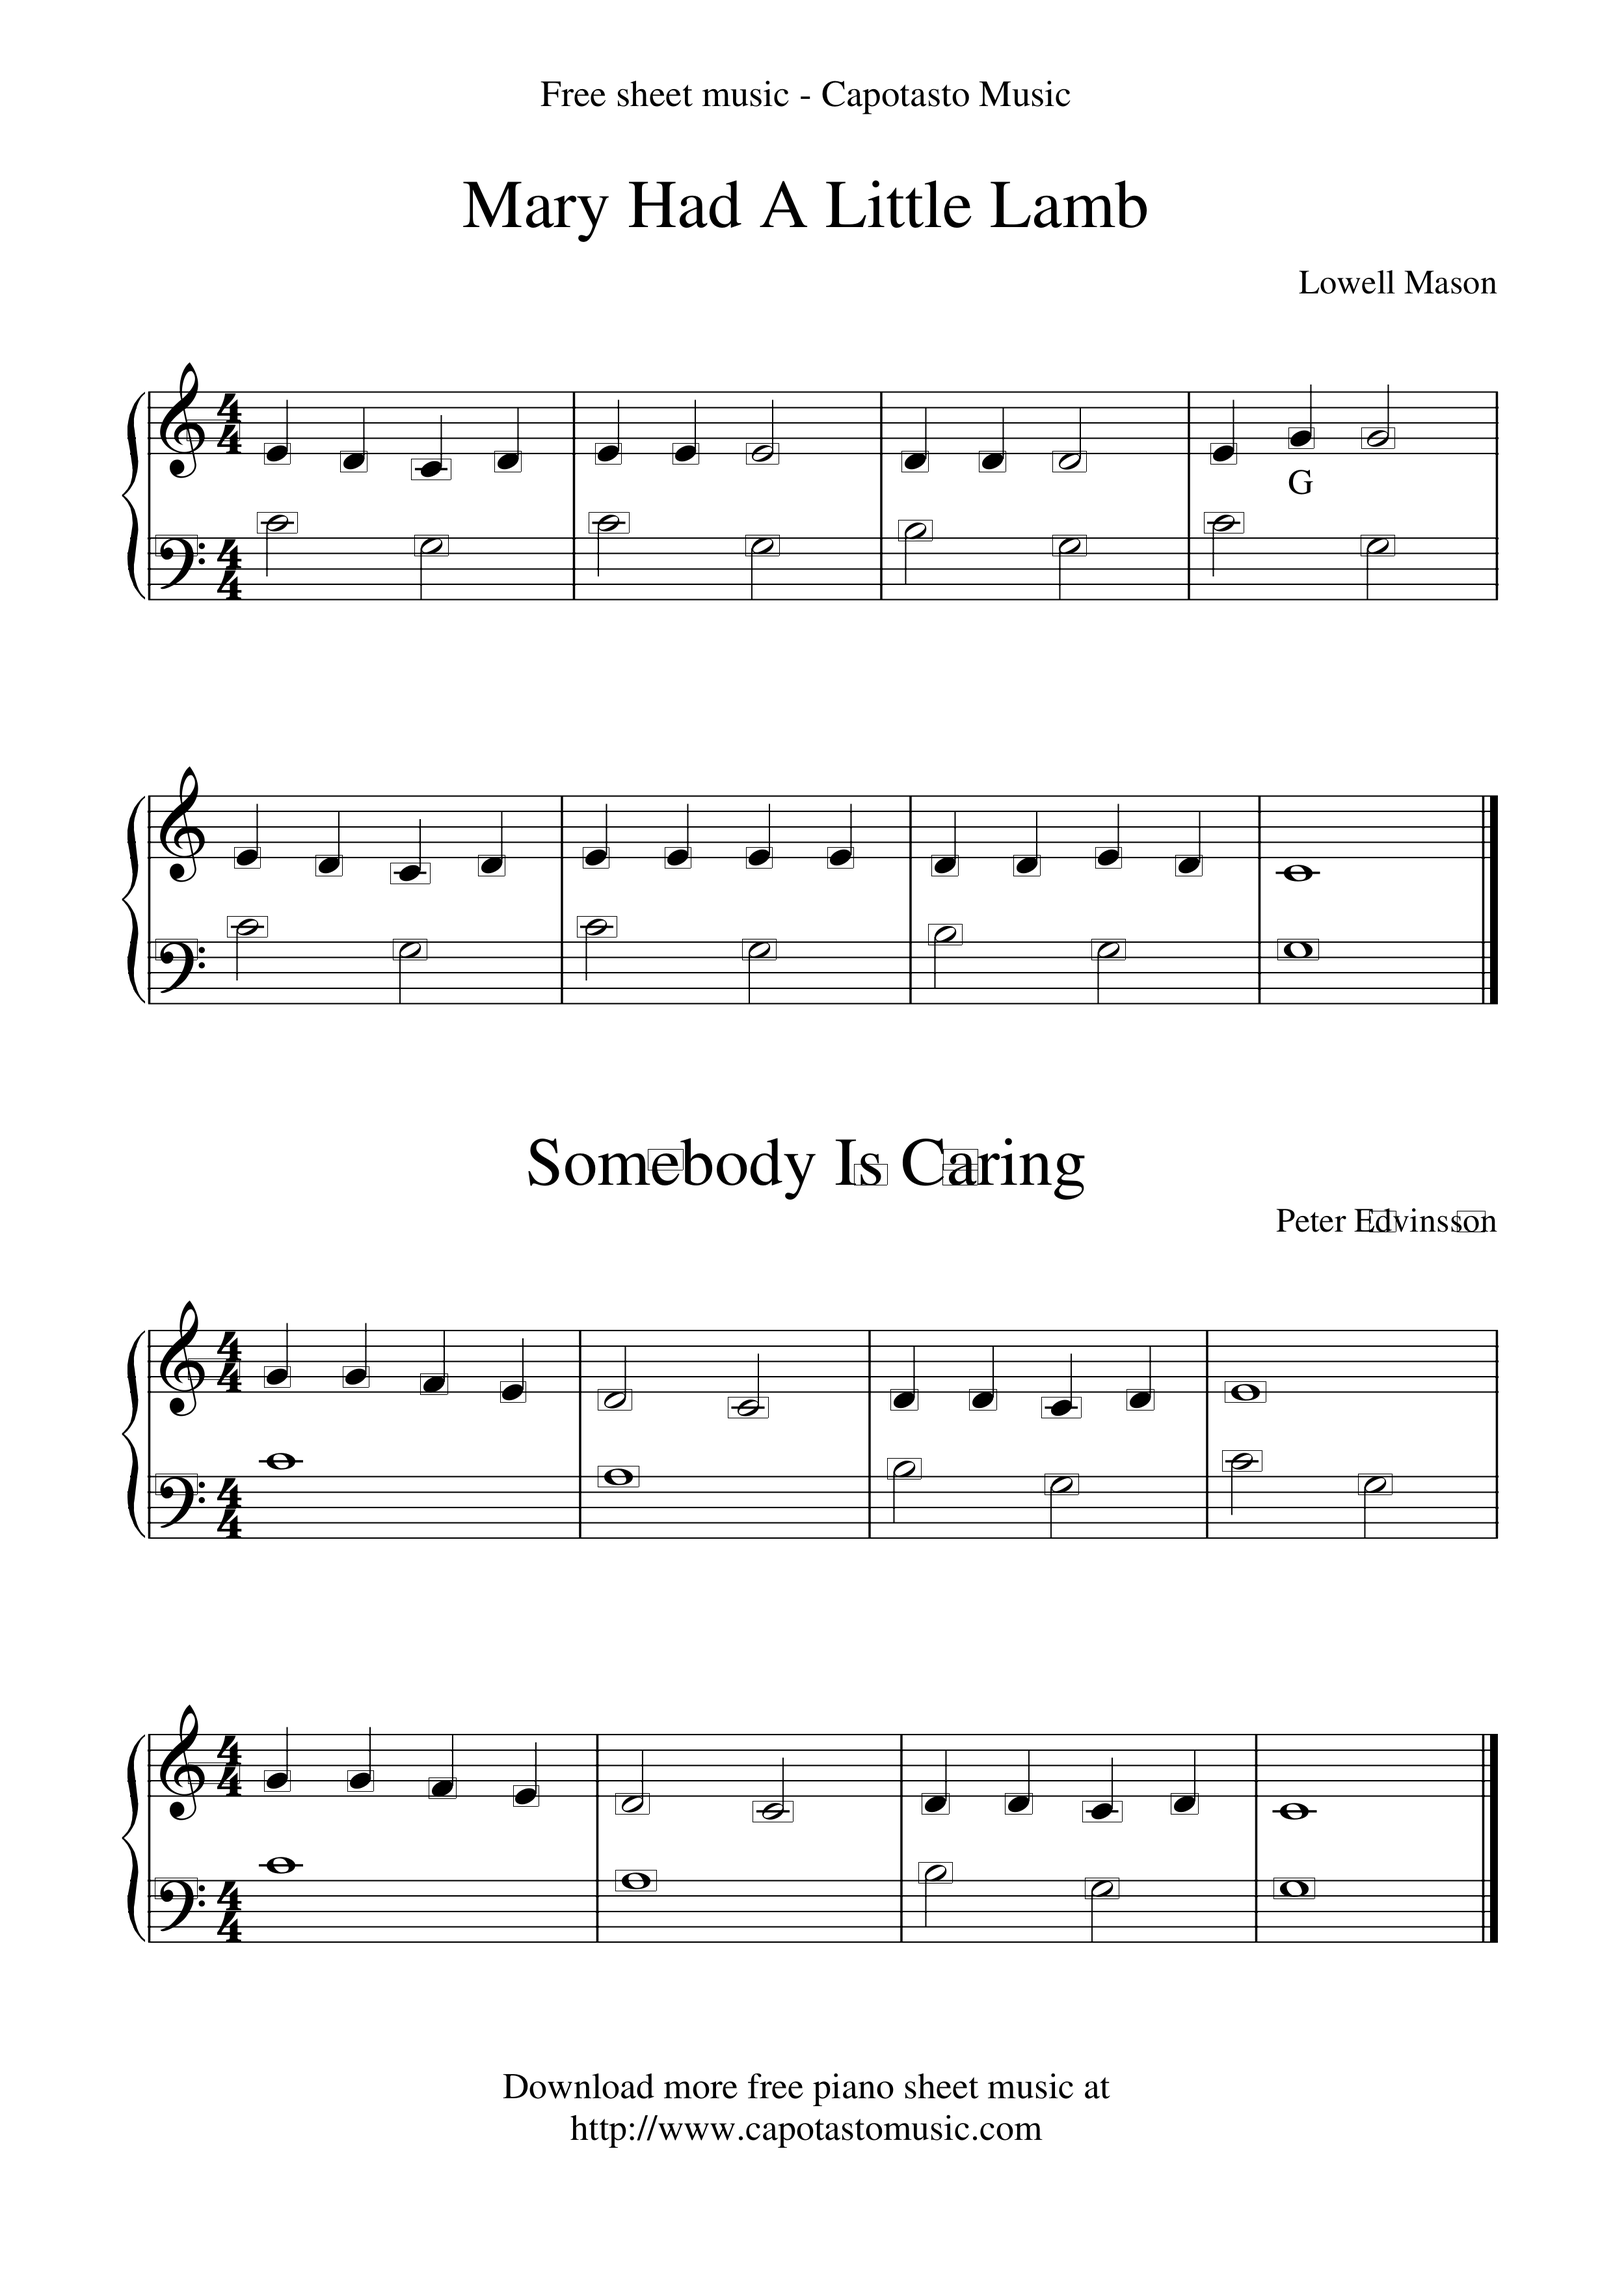
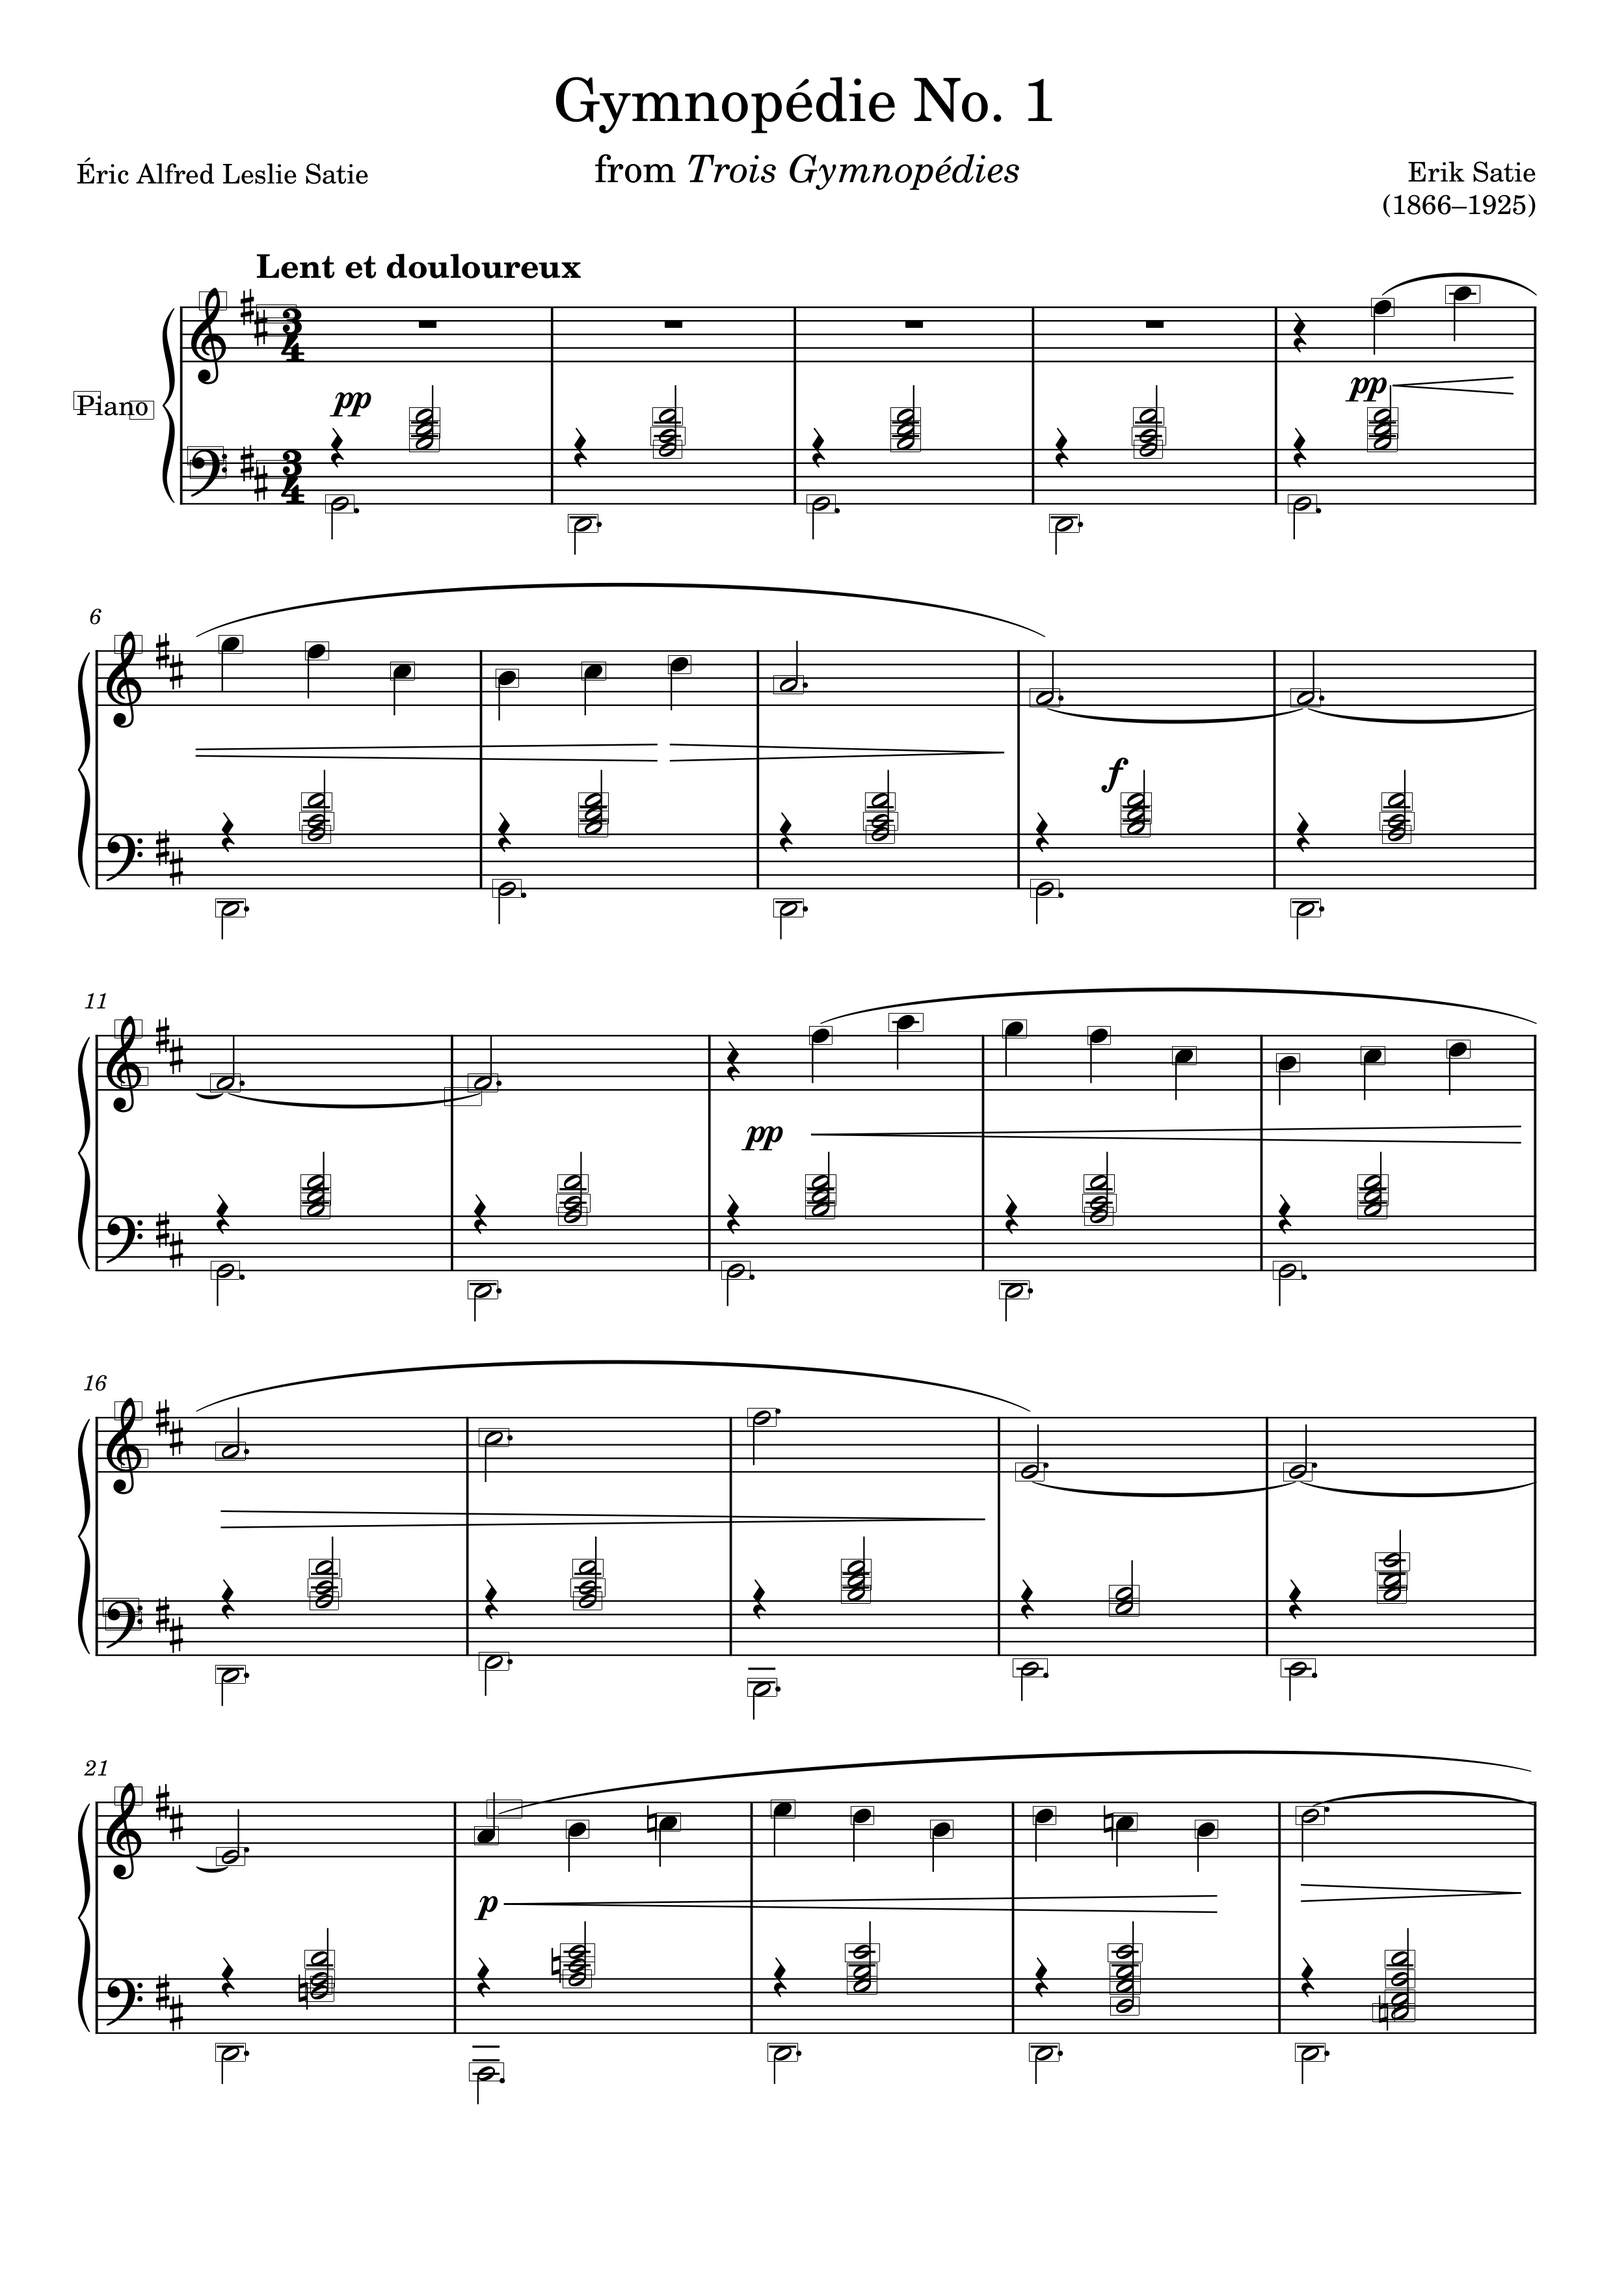
figureoutwhyitisnotrunningfortheotherstuff!

diff --git a/main.py b/main.py
@@ -1,5 +1,6 @@
 #it should also scan rythms with that orchestra thingy i used to have that could do that and like outline it then the students could record themselves clapping to it
 #once this was done i would try to sell it to the districts
+#make it so for every note it will go back and associate exactly the outline of it!
 
 #---- i would then start selling bulk packages to districts
 #the idea would be the teachers search of enter in pdfs for each studnets thing
@@ -1460,11 +1461,12 @@ def find_and_combine_extra(arr1, arr2):
     return result
 
 # Example usage
-pdf_path = "hello.pdf"
+pdf_path = "input.pdf"
 input_folder = "input"
 new_input = 'new_input'
 
 
+#to debug this we can try to see it proces both pages seperately from some old commits but literally it is showing it has everything there i think it is a probelm with combine
 for filename in os.listdir(input_folder):
     if filename.endswith(".png") or filename.endswith(".jpg"):
         try:
@@ -1479,6 +1481,7 @@ for filename in os.listdir(input_folder):
             return_extract_highlighted_lines_and_columns_from_image_took_out, sorted_middles, difference_between_lines_for_line_drawing = extract_highlighted_lines_and_columns_from_image_took_out(image_path)
 
             notes = find_and_combine_extra(return_extract_highlighted_lines_and_columns_from_image_took_out, extract_highlighted_lines_and_columns_from_image_kept_in(image_path))
+            print(image_path + str(notes))
             
             for note in notes:
                 #figure out what is happening i think it might have something to do w our combination but idk
@@ -1495,7 +1498,7 @@ for filename in os.listdir(input_folder):
                 img_array[top_left[1] - 5, top_left[0] - 5:bottom_right[0] + 5] = 0
                 #bottom side
                 img_array[bottom_right[1] + 5, top_left[0] - 5:bottom_right[0] + 5] = 0  
-
+                print(image_path)
             img = Image.fromarray(img_array)
             img.save(image_path)
         except IndexError as e:
